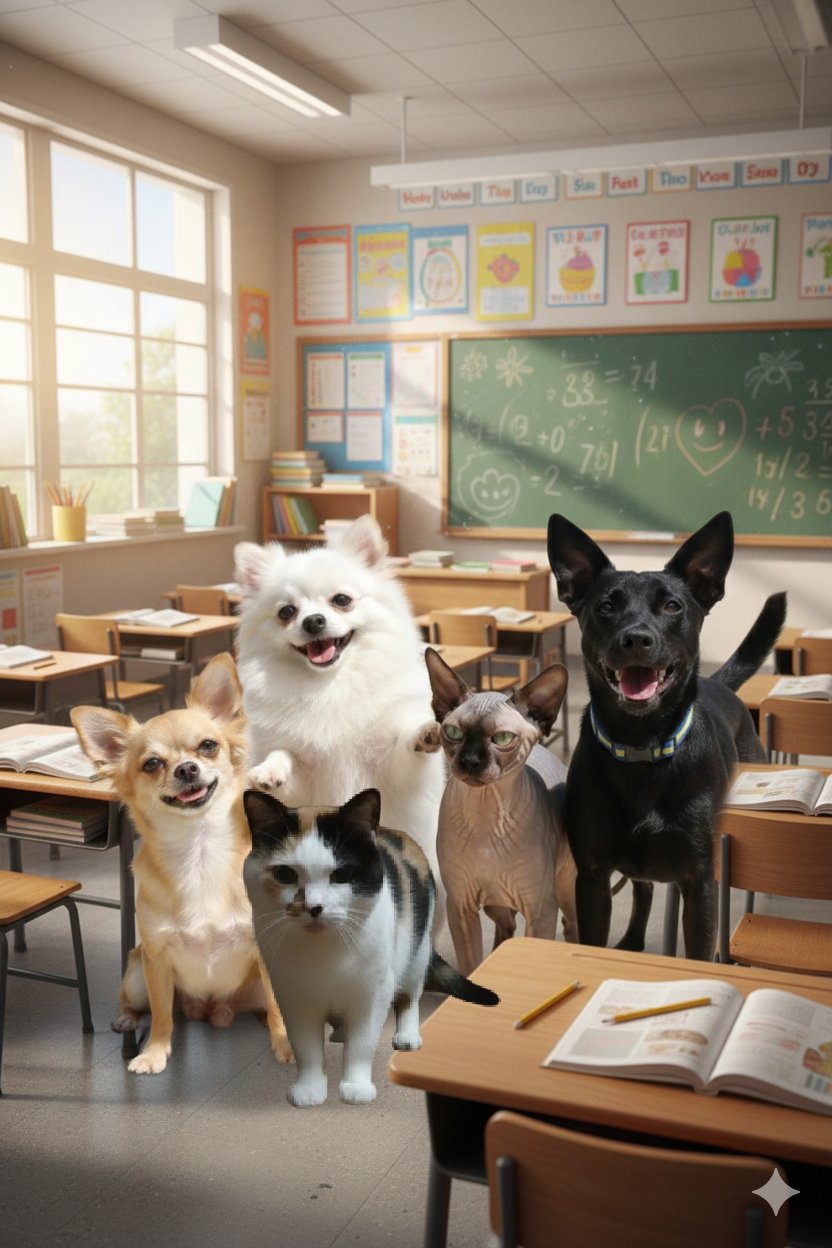
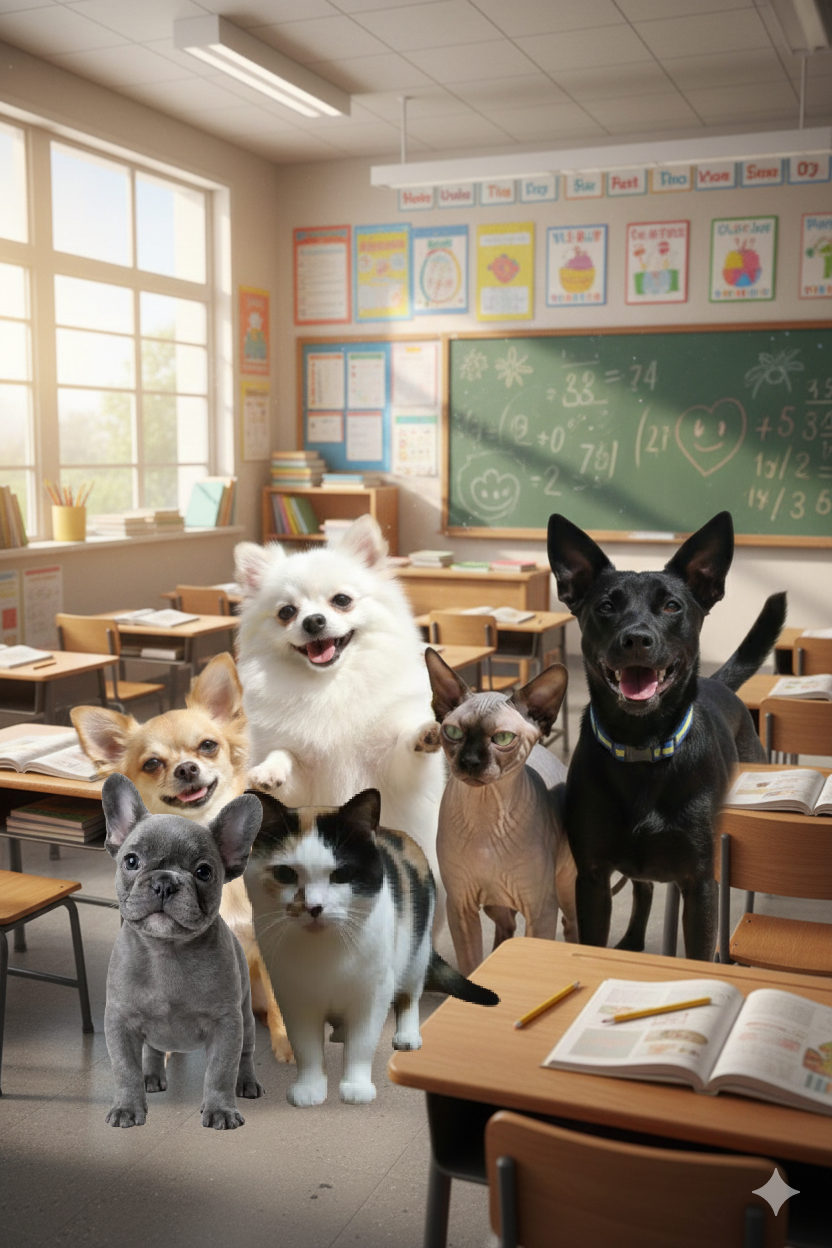
Add files via upload

Changed region(s): [[0.125, 0.5938, 0.3125, 0.9062]]

diff --git a/index.htm b/index.htm
@@ -146,6 +146,10 @@
             <div class="card" onclick="selectChar('Мілка', 'Milka.png')">
                 <img src="Milka.png" alt="Milka" onerror="this.src='https://via.placeholder.com/100?text=Fil'">
                 <p>Мілка</p>
+            </div>
+            <div class="card" onclick="selectChar('Барк', 'Bark.png')">
+                <img src="Bark.png" alt="Bark" onerror="this.src='https://via.placeholder.com/100?text=Bark'">
+                <p>Барк</p>
 
             </div>
         </div>
